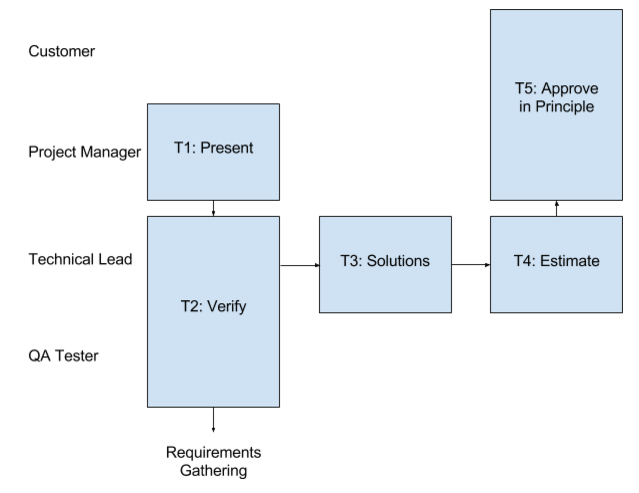
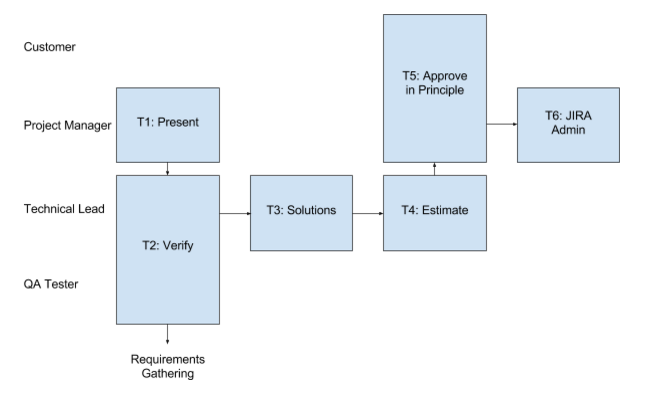
Spec writing flow and tweaks

diff --git a/_content/SoftwareDevelopment-subtopics/SpecificationWriting.md b/_content/SoftwareDevelopment-subtopics/SpecificationWriting.md
@@ -23,7 +23,7 @@ status: TODO
 - A completed requirements document as per the [Requirements Gathering Process][1]
 - All parties to have clear understanding of requirements and motivations for the proposed development as per the [Ballparking Process][2]
 
-## Flow chart of Process
+![Specification writing Process](/DevelopmentTeamProcess/images/SpecificationWriting/SpecificationWritingFlow.png)
 
 ## Tasks
 T1a. 	Descriptive Specification: **Project Manager** to provide a descriptive overview of the problem and the agreed solution. This should contain visual aids where possible (eg screenshots/mockups and/or workflow diagrams).
@@ -34,8 +34,9 @@ T1c. 	BDD Specification: **QA Tester** to provide a comprehensive list of test c
 
 T2. 	Group Review: **Project Manager**, **Technical Lead** and **QA Tester** should meet to review the finalised specification. The sections should be collated into a single specification ([see template][3]) and all parties should check that none of the sections are contradictory and all meet the solution discussed.
 
-T3. 	Sign Off: **Customer** reviews the finalised specification to ensure that all requirements are met to their satisfcation and that they understand what will be delivered. **Customer** also verifies that the defined criteria for success match with how they intent to ultimately test the development.
-		
+T3. Quote: **Technical Lead** provides a final development effort for the ticket. **Project Manager** adds development days and billing details to the JIRA ticket, the ticket is then moved into *Quoted* status
+
+T4. 	Sign Off: **Customer** reviews the finalised specification to ensure that all requirements are met to their satisfcation and that they understand what will be delivered. **Customer** also verifies that the defined criteria for success match with how they intent to ultimately test the development. **Customer** confirms they are happy with the quoted price of development. **Customer** moves the ticket into *Development Approved*
 
 ## Verification
 N/A
@@ -45,6 +46,8 @@ N/A
 - All parties are satisfied that the specification document contains no ambiguity
 - All parties are satisfied that the specification document is not missing any success criteria
 - **Technical Lead** is happy that any developer could pick up the job based on the information in the specification alone
+- A development effort and billing details have been added to the JIRA ticket
+- The status of the JIRA ticket is *Development Approved*
 
 ## Deliverables
 D1. A finalised specification document which meets with the provided template

diff --git a/_content/SoftwareDevelopment-subtopics/Ballparking.md b/_content/SoftwareDevelopment-subtopics/Ballparking.md
@@ -35,6 +35,8 @@ T4. 	Estimate: **Technical Lead** to provide a rough estimate of effort involved
 
 T5. 	Approve in Principle: **Project Manager** to present suggested solutions (with an emphasis on the **Technical Lead**'s preferred solution) to the **Customer** who will then pick their preferred option
 
+T6. 	JIRA Adim: **Project Manager** moves ticket into specification status
+
 		
 
 ## Verification
@@ -55,6 +57,7 @@ V4. 	Viability: **Technical Lead** to verify that all requirements are possible 
 	- All parties are agreed on the solution which will be used to meet the requirements
 	- **Technical Lead** has provided a rough estimate of development effort for the preferred solution
 	- Any limitations of the soultion have been understood and presented to the customer
+	- JIRA status should be *Specification*
 
 ## Deliverables
 D1. A final solution for the proposed development

diff --git a/_content/SoftwareDevelopment-subtopics/RequirementsGathering.md b/_content/SoftwareDevelopment-subtopics/RequirementsGathering.md
@@ -34,6 +34,7 @@ Full verification of requirements happens at the [ballpark][2] step
 ## Exit Criteria
 - Requirements document is complete
 - **Project Manager** fully understands the **Customer**'s requirements and motivations (to be able to present it to the business)
+- JIRA ticket status is *Requirements Received*
 
 ## Deliverables
 D1. 	Completed requirements document
